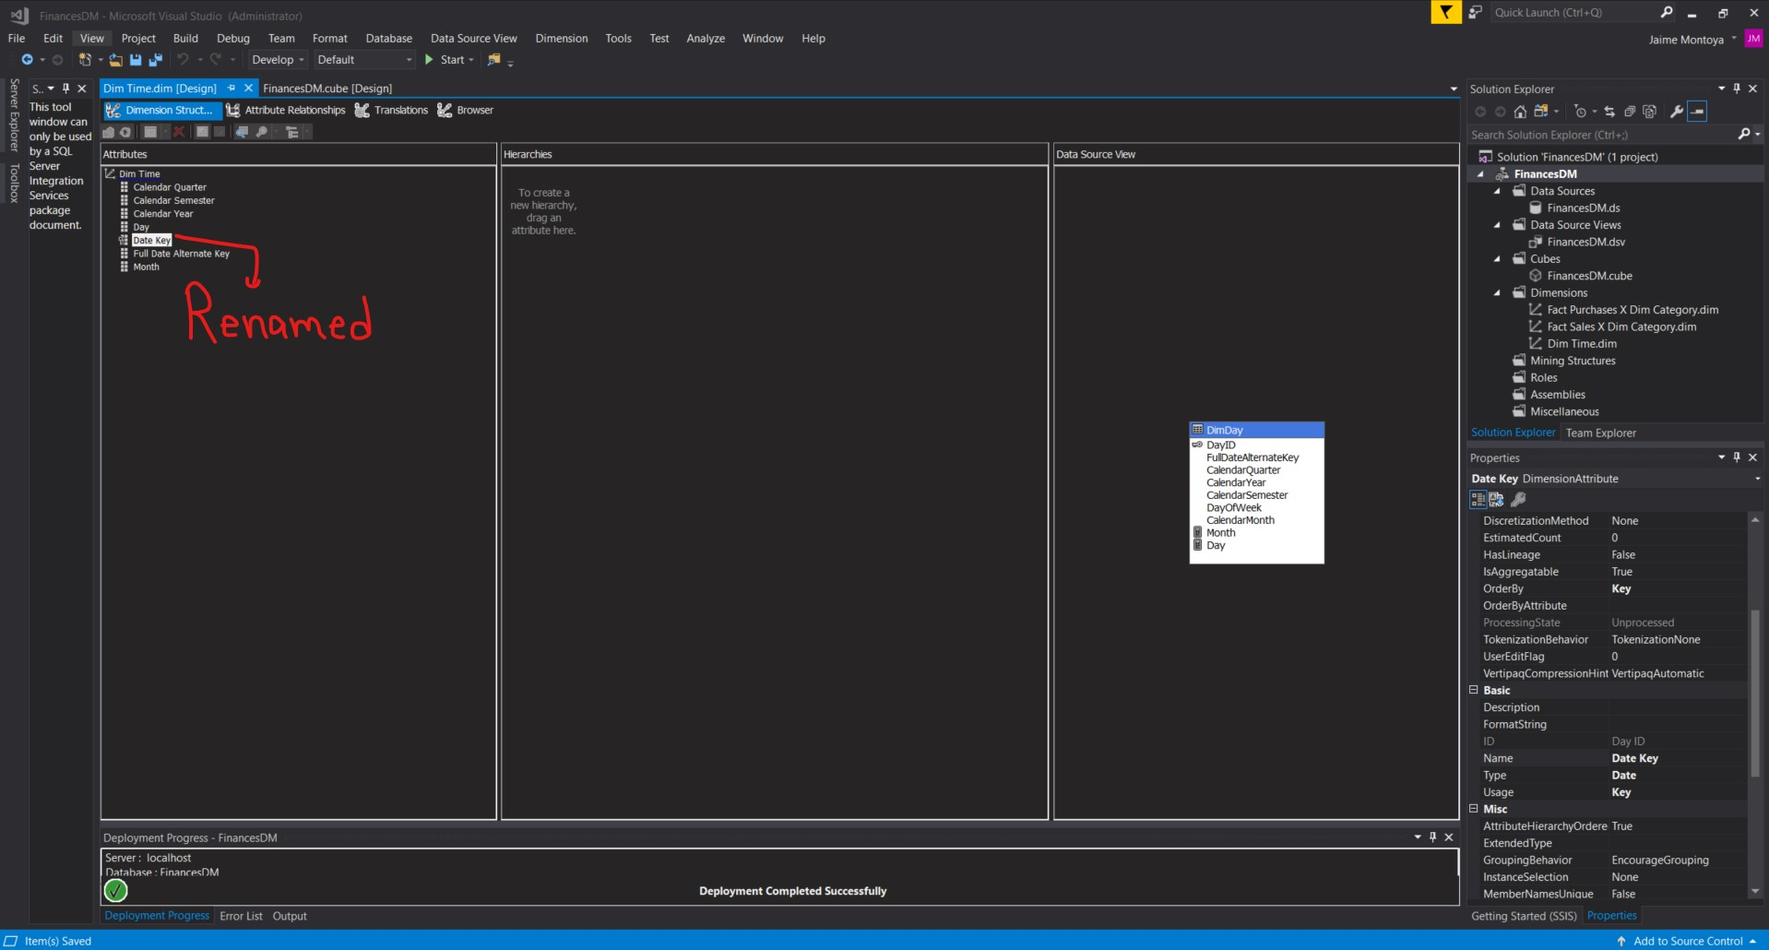
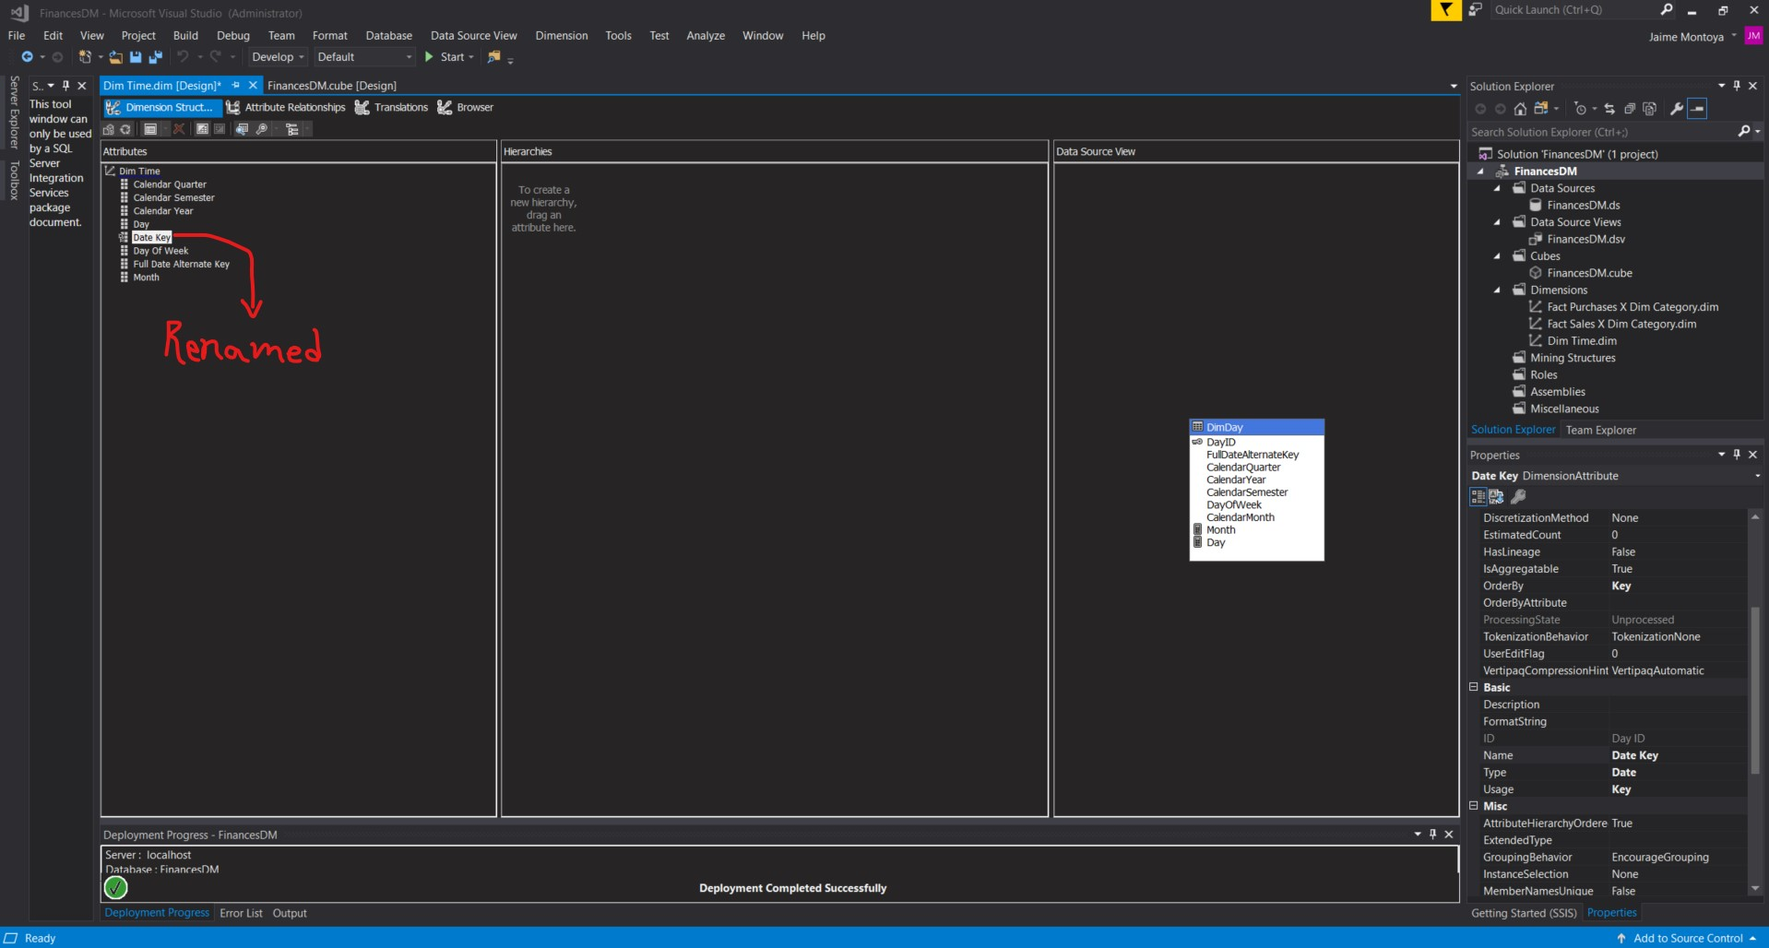
Update image.

diff --git a/blog/2023/12/31/06/14/book-info-20231231-0614.php b/blog/2023/12/31/06/14/book-info-20231231-0614.php
@@ -17,10 +17,8 @@ WHEN CalendarMonth = 11 THEN 'November'
 WHEN CalendarMonth = 12 THEN 'December'
 END
 </pre>		   
-		   </td></tr><tr><td>Day</td><td><span class=\"cod\">CONVERT(int, RIGHT(DayID, 2))</span></td></tr></table><p>I created the <span class=\"cod\">Named Calculation</span> for <span class=\"cod\">Month</span>:</p><div><img src=\"/blog/2023/12/31/06/14/img/createNamedCalculationForMonth.jpg\" alt=\"Create Named Calculation for Month\" width=\"1920\" height=\"1030\"></div><p>I created the <span class=\"cod\">Named Calculation</span> for <span class=\"cod\">Day</span>:</p><div><img src=\"/blog/2023/12/31/06/14/img/createNamedCalculationForDay.jpg\" alt=\"Create Named Calculation for Day\" width=\"1920\" height=\"1026\"></div><p>The new <span class=\"cod\">Named Calculations</span> appeared in the <span class=\"cod\">FinancesDM.dsv Data Source View</span> diagram:</p><div><img src=\"/blog/2023/12/31/06/14/img/calculatedColumnsInDataSourceView.jpg\" alt=\"Calculated columns in Data Source View\" width=\"1919\" height=\"1030\"></div><p>I right-clicked the <span class=\"cod\">DimDay</span> table and clicked <span class=\"cod\">Explore Data</span>:</p><div><img src=\"/blog/2023/12/31/06/14/img/exploreDataFromDataSourceView.jpg\" alt=\"Explore Data from Data Source View\" width=\"1916\" height=\"1028\"></div><p>The <span class=\"cod\">Explore DimDay Table</span> tab appeared with the corresponding results from the view:</p><div><img src=\"/blog/2023/12/31/06/14/img/exploreDimDayTable.jpg\" alt=\"Explore DimDay table\" width=\"1919\" height=\"1030\"></div><p>The results above were exactly the same as when running <span class=\"cod\">SELECT * FROM [Finances].[dbo].[DimDay]</span> from <span class=\"cod\">SQL Server Management Studio</span>, except for the two <span class=\"cod\">Calculated Columns</span> (<span class=\"cod\">Month</span> and <span class=\"cod\">Day</span>):</p><div><img src=\"/blog/2023/12/31/06/14/img/exploreDimDayTableDataFromSQLServerManagementStudio.jpg\" alt=\"Explore DimDay table data from SQL Server Management Studio\" width=\"1920\" height=\"1029\"></div><p>I double-clicked <span class=\"cod\">FinancesDM.cube</span> to open the <span class=\"cod\">FinancesDM.cube [Design]</span> tab. The <span class=\"cod\">Calculated Columns</span> were included in the cube diagram:</p><div><img src=\"/blog/2023/12/31/06/14/img/includeCalculatedColumnsInCubeDiagram.jpg\" alt=\"Include Calculated Columns in cube diagram\" width=\"1917\" height=\"1028\"></div><p>I right-clicked <span class=\"cod\">Dim Time.dim</span> and clicked <span class=\"cod\">Delete</span>:</p><div><img src=\"/blog/2023/12/31/06/14/img/deleteTimeDimension.jpg\" alt=\"Delete Time dimension\" width=\"1918\" height=\"1030\"></div><p>I clicked <span class=\"cod\">OK</span> to delete the <span class=\"cod\">Dim Time</span> object:</p><div><img src=\"/blog/2023/12/31/06/14/img/deleteDimTimeObject.jpg\" alt=\"Delete Dim Time object\" width=\"1918\" height=\"1028\"></div><p>I right-clicked the <span class=\"cod\">Dimensions</span> entry in the <span class=\"cod\">Solution Explorer</span> window, and selected <span class=\"cod\">New Dimension</span> from the context menu:</p><div><img src=\"/blog/2023/12/31/06/14/img/createNewTimeDimension.jpg\" alt=\"Create new Time dimension\" width=\"1922\" height=\"1080\"></div><p>The <span class=\"cod\">Dimension Wizard</span> dialog box appeared. I clicked <span class=\"cod\">Next</span>:</p><div><img src=\"/blog/2023/12/31/06/14/img/startDimensionWizard.jpg\" alt=\"Start Dimension Wizard\" width=\"1918\" height=\"1029\"></div><p>The <span class=\"cod\">Select Creation Method</span> page of the wizard appeared. I left the <span class=\"cod\">Use an existing table</span> item selected and clicked <span class=\"cod\">Next</span>:</p><div><img src=\"/blog/2023/12/31/06/14/img/useAnExistingTableToCreateDimension.jpg\" alt=\"Use an existing table to create dimension\" width=\"1919\" height=\"1028\"></div><p>The <span class=\"cod\">Specify Source Information</span> page appeared. The <span class=\"cod\">FinancesDM</span> data source view was already selected. I selected <span class=\"cod\">DimDay</span> from the <span class=\"cod\">Main table</span> drop-down list. <span class=\"cod\">DayID</span> was selected as the first and only <span class=\"cod\">Key column</span>. I selected <span class=\"cod\">DayID</span> from the drop-down list at the bottom. I clicked <span class=\"cod\">Next</span>:</p><div><img src=\"/blog/2023/12/31/06/14/img/specifySourceInformationForTimeDimension.jpg\" alt=\"Specify Source Information for Time dimension\" width=\"1917\" height=\"1031\"></div><p>The <span class=\"cod\">Select Dimension Attributes</span> page appeared. I left <span class=\"cod\">Day ID</span> checked and also checked <span class=\"cod\">Full Date Alternate Key</span>, <span class=\"cod\">Calendar Quarter</span>, <span class=\"cod\">Calendar Year</span>, <span class=\"cod\">Calendar Semester</span>, <span class=\"cod\">Day Of Week</span>, <span class=\"cod\">Month</span>, and <span class=\"cod\">Day</span>. I clicked in the <span class=\"cod\">Attribute Type column</span> across from <span class=\"cod\">Day ID</span>. I clicked the drop-down arrow. I expanded the <span class=\"cod\">Date</span> entry. I expanded the <span class=\"cod\">Calendar</span> entry. I selected <span class=\"cod\">Date</span> and clicked <span class=\"cod\">OK</span>:</p><div><img src=\"/blog/2023/12/31/06/14/img/defineAttributeTypeForDayID.jpg\" alt=\"Define Attribute Type for Day ID\" width=\"1916\" height=\"1029\"></div><p>I clicked in the <span class=\"cod\">Attribute Type column</span> across from <span class=\"cod\">Full Date Alternate Key</span>. I clicked the drop-down arrow. I expanded the <span class=\"cod\">Date</span> entry. I expanded the <span class=\"cod\">Calendar</span> entry. I selected <span class=\"cod\">Date</span> and clicked <span class=\"cod\">OK</span>:</p><div><img src=\"/blog/2023/12/31/06/14/img/selectDateAttributeType.jpg\" alt=\"Select Date Attribute Type\" width=\"1916\" height=\"1029\"></div><p>I clicked in the <span class=\"cod\">Attribute Type</span> column across from <span class=\"cod\">Calendar Quarter</span>. I clicked the drop-down arrow. I expanded the <span class=\"cod\">Date</span> entry. I expanded the <span class=\"cod\">Calendar</span> entry. I selected <span class=\"cod\">Quarter</span> and clicked <span class=\"cod\">OK</span>:</p><div><img src=\"/blog/2023/12/31/06/14/img/selectQuarterAttributeType.jpg\" alt=\"Select Quarter Attribute Type\" width=\"1917\" height=\"1031\"></div><p>I clicked in the <span class=\"cod\">Attribute Type</span> column across from <span class=\"cod\">Calendar Year</span>. I clicked the drop-down arrow. I expanded the <span class=\"cod\">Date</span> entry. I expanded the <span class=\"cod\">Calendar</span> entry. I selected <span class=\"cod\">Year</span> and clicked <span class=\"cod\">OK</span>:</p><div><img src=\"/blog/2023/12/31/06/14/img/selectYearAttributeTypeForDimension.jpg\" alt=\"Select Year Attribute Type for Dimension\" width=\"1916\" height=\"1030\"></div><p>I clicked in the <span class=\"cod\">Attribute Type</span> column across from <span class=\"cod\">Calendar Semester</span>. I clicked the drop-down arrow. I expanded the <span class=\"cod\">Date</span> entry. I expanded the <span class=\"cod\">Calendar</span> entry. I selected <span class=\"cod\">Half Year</span> and clicked <span class=\"cod\">OK</span>:</p><div><img src=\"/blog/2023/12/31/06/14/img/selectHalfYearAttributeTypeForDimension.jpg\" alt=\"Select Half Year Attribute Type for Dimension\" width=\"1919\" height=\"1028\"></div><p>I clicked in the <span class=\"cod\">Attribute Type</span> column across from <span class=\"cod\">Day Of Week</span>. I clicked the drop-down arrow. I expanded the <span class=\"cod\">Date</span> entry. I expanded the <span class=\"cod\">Calendar</span> entry. I selected <span class=\"cod\">Day of Week</span> and clicked <span class=\"cod\">OK</span>:</p><div><img src=\"/blog/2023/12/31/06/14/img/selectDayOfWeekAttributeTypeForDimension.jpg\" alt=\"Select Month Attribute Type for Dimension\" width=\"1919\" height=\"1026\"></div><p>I clicked in the <span class=\"cod\">Attribute Type</span> column across from <span class=\"cod\">Month</span>. I clicked the drop-down arrow. I expanded the <span class=\"cod\">Date</span> entry. I expanded the <span class=\"cod\">Calendar</span> entry. I selected <span class=\"cod\">Month</span> and clicked <span class=\"cod\">OK</span>:</p><div><img src=\"/blog/2023/12/31/06/14/img/selectMonthAttributeTypeForDimension.jpg\" alt=\"Select Month Attribute Type for Dimension\" width=\"1915\" height=\"1025\"></div><p>I clicked in the <span class=\"cod\">Attribute Type</span> column across from <span class=\"cod\">Day</span>. I clicked the drop-down arrow. I expanded the <span class=\"cod\">Date</span> entry. I expanded the <span class=\"cod\">Calendar</span> entry. I selected <span class=\"cod\">Day of Month</span> and clicked <span class=\"cod\">OK</span>:</p><div><img src=\"/blog/2023/12/31/06/14/img/selectDayOfMonthAttributeForDimension.jpg\" alt=\"Select Day of Month Attribute Type for Dimension\" width=\"1917\" height=\"1029\"></div><p>I clicked <span class=\"cod\">Next</span>:</p><div><img src=\"/blog/2023/12/31/06/14/img/clickNextAfterSelectingTimeDimensionAttributes.jpg\" alt=\"Click Next after selecting Time Dimension attributes\" width=\"1917\" height=\"1030\"></div><p>The <span class=\"cod\">Completing the Wizard</span> page appeared. I changed the name to <span class=\"cod\">Dim Time</span>. I clicked <span class=\"cod\">Finish</span>:</p><div><img src=\"/blog/2023/12/31/06/14/img/clickFinishToCompleteCreationOfTimeDimension.jpg\" alt=\"Click Finish to complete creation of Time Dimension\" width=\"1918\" height=\"1029\"></div><p>The <span class=\"cod\">Dimension Design</span> tab appeared with the <span class=\"cod\">Dim Time</span> dimension:</p><div><img src=\"/blog/2023/12/31/06/14/img/timeDimensionDesignTabForNewTimeDimension.jpg\" alt=\"Time Dimension Design tab for new Time Dimension\" width=\"1917\" height=\"1028\"></div><p>I right-clicked the entry for <span class=\"cod\">Day ID</span> in the <span class=\"cod\">Attributes</span> area, and selected <span class=\"cod\">Rename</span> from the context menu:</p><div><img src=\"/blog/2023/12/31/06/14/img/renameDayIDAttribute.jpg\" alt=\"Rename Day ID Attribute\" width=\"1914\" height=\"1028\"></div>
+		   </td></tr><tr><td>Day</td><td><span class=\"cod\">CONVERT(int, RIGHT(DayID, 2))</span></td></tr></table><p>I created the <span class=\"cod\">Named Calculation</span> for <span class=\"cod\">Month</span>:</p><div><img src=\"/blog/2023/12/31/06/14/img/createNamedCalculationForMonth.jpg\" alt=\"Create Named Calculation for Month\" width=\"1920\" height=\"1030\"></div><p>I created the <span class=\"cod\">Named Calculation</span> for <span class=\"cod\">Day</span>:</p><div><img src=\"/blog/2023/12/31/06/14/img/createNamedCalculationForDay.jpg\" alt=\"Create Named Calculation for Day\" width=\"1920\" height=\"1026\"></div><p>The new <span class=\"cod\">Named Calculations</span> appeared in the <span class=\"cod\">FinancesDM.dsv Data Source View</span> diagram:</p><div><img src=\"/blog/2023/12/31/06/14/img/calculatedColumnsInDataSourceView.jpg\" alt=\"Calculated columns in Data Source View\" width=\"1919\" height=\"1030\"></div><p>I right-clicked the <span class=\"cod\">DimDay</span> table and clicked <span class=\"cod\">Explore Data</span>:</p><div><img src=\"/blog/2023/12/31/06/14/img/exploreDataFromDataSourceView.jpg\" alt=\"Explore Data from Data Source View\" width=\"1916\" height=\"1028\"></div><p>The <span class=\"cod\">Explore DimDay Table</span> tab appeared with the corresponding results from the view:</p><div><img src=\"/blog/2023/12/31/06/14/img/exploreDimDayTable.jpg\" alt=\"Explore DimDay table\" width=\"1919\" height=\"1030\"></div><p>The results above were exactly the same as when running <span class=\"cod\">SELECT * FROM [Finances].[dbo].[DimDay]</span> from <span class=\"cod\">SQL Server Management Studio</span>, except for the two <span class=\"cod\">Calculated Columns</span> (<span class=\"cod\">Month</span> and <span class=\"cod\">Day</span>):</p><div><img src=\"/blog/2023/12/31/06/14/img/exploreDimDayTableDataFromSQLServerManagementStudio.jpg\" alt=\"Explore DimDay table data from SQL Server Management Studio\" width=\"1920\" height=\"1029\"></div><p>I double-clicked <span class=\"cod\">FinancesDM.cube</span> to open the <span class=\"cod\">FinancesDM.cube [Design]</span> tab. The <span class=\"cod\">Calculated Columns</span> were included in the cube diagram:</p><div><img src=\"/blog/2023/12/31/06/14/img/includeCalculatedColumnsInCubeDiagram.jpg\" alt=\"Include Calculated Columns in cube diagram\" width=\"1917\" height=\"1028\"></div><p>I right-clicked <span class=\"cod\">Dim Time.dim</span> and clicked <span class=\"cod\">Delete</span>:</p><div><img src=\"/blog/2023/12/31/06/14/img/deleteTimeDimension.jpg\" alt=\"Delete Time dimension\" width=\"1918\" height=\"1030\"></div><p>I clicked <span class=\"cod\">OK</span> to delete the <span class=\"cod\">Dim Time</span> object:</p><div><img src=\"/blog/2023/12/31/06/14/img/deleteDimTimeObject.jpg\" alt=\"Delete Dim Time object\" width=\"1918\" height=\"1028\"></div><p>I right-clicked the <span class=\"cod\">Dimensions</span> entry in the <span class=\"cod\">Solution Explorer</span> window, and selected <span class=\"cod\">New Dimension</span> from the context menu:</p><div><img src=\"/blog/2023/12/31/06/14/img/createNewTimeDimension.jpg\" alt=\"Create new Time dimension\" width=\"1922\" height=\"1080\"></div><p>The <span class=\"cod\">Dimension Wizard</span> dialog box appeared. I clicked <span class=\"cod\">Next</span>:</p><div><img src=\"/blog/2023/12/31/06/14/img/startDimensionWizard.jpg\" alt=\"Start Dimension Wizard\" width=\"1918\" height=\"1029\"></div><p>The <span class=\"cod\">Select Creation Method</span> page of the wizard appeared. I left the <span class=\"cod\">Use an existing table</span> item selected and clicked <span class=\"cod\">Next</span>:</p><div><img src=\"/blog/2023/12/31/06/14/img/useAnExistingTableToCreateDimension.jpg\" alt=\"Use an existing table to create dimension\" width=\"1919\" height=\"1028\"></div><p>The <span class=\"cod\">Specify Source Information</span> page appeared. The <span class=\"cod\">FinancesDM</span> data source view was already selected. I selected <span class=\"cod\">DimDay</span> from the <span class=\"cod\">Main table</span> drop-down list. <span class=\"cod\">DayID</span> was selected as the first and only <span class=\"cod\">Key column</span>. I selected <span class=\"cod\">DayID</span> from the drop-down list at the bottom. I clicked <span class=\"cod\">Next</span>:</p><div><img src=\"/blog/2023/12/31/06/14/img/specifySourceInformationForTimeDimension.jpg\" alt=\"Specify Source Information for Time dimension\" width=\"1917\" height=\"1031\"></div><p>The <span class=\"cod\">Select Dimension Attributes</span> page appeared. I left <span class=\"cod\">Day ID</span> checked and also checked <span class=\"cod\">Full Date Alternate Key</span>, <span class=\"cod\">Calendar Quarter</span>, <span class=\"cod\">Calendar Year</span>, <span class=\"cod\">Calendar Semester</span>, <span class=\"cod\">Day Of Week</span>, <span class=\"cod\">Month</span>, and <span class=\"cod\">Day</span>. I clicked in the <span class=\"cod\">Attribute Type column</span> across from <span class=\"cod\">Day ID</span>. I clicked the drop-down arrow. I expanded the <span class=\"cod\">Date</span> entry. I expanded the <span class=\"cod\">Calendar</span> entry. I selected <span class=\"cod\">Date</span> and clicked <span class=\"cod\">OK</span>:</p><div><img src=\"/blog/2023/12/31/06/14/img/defineAttributeTypeForDayID.jpg\" alt=\"Define Attribute Type for Day ID\" width=\"1916\" height=\"1029\"></div><p>I clicked in the <span class=\"cod\">Attribute Type column</span> across from <span class=\"cod\">Full Date Alternate Key</span>. I clicked the drop-down arrow. I expanded the <span class=\"cod\">Date</span> entry. I expanded the <span class=\"cod\">Calendar</span> entry. I selected <span class=\"cod\">Date</span> and clicked <span class=\"cod\">OK</span>:</p><div><img src=\"/blog/2023/12/31/06/14/img/selectDateAttributeType.jpg\" alt=\"Select Date Attribute Type\" width=\"1916\" height=\"1029\"></div><p>I clicked in the <span class=\"cod\">Attribute Type</span> column across from <span class=\"cod\">Calendar Quarter</span>. I clicked the drop-down arrow. I expanded the <span class=\"cod\">Date</span> entry. I expanded the <span class=\"cod\">Calendar</span> entry. I selected <span class=\"cod\">Quarter</span> and clicked <span class=\"cod\">OK</span>:</p><div><img src=\"/blog/2023/12/31/06/14/img/selectQuarterAttributeType.jpg\" alt=\"Select Quarter Attribute Type\" width=\"1917\" height=\"1031\"></div><p>I clicked in the <span class=\"cod\">Attribute Type</span> column across from <span class=\"cod\">Calendar Year</span>. I clicked the drop-down arrow. I expanded the <span class=\"cod\">Date</span> entry. I expanded the <span class=\"cod\">Calendar</span> entry. I selected <span class=\"cod\">Year</span> and clicked <span class=\"cod\">OK</span>:</p><div><img src=\"/blog/2023/12/31/06/14/img/selectYearAttributeTypeForDimension.jpg\" alt=\"Select Year Attribute Type for Dimension\" width=\"1916\" height=\"1030\"></div><p>I clicked in the <span class=\"cod\">Attribute Type</span> column across from <span class=\"cod\">Calendar Semester</span>. I clicked the drop-down arrow. I expanded the <span class=\"cod\">Date</span> entry. I expanded the <span class=\"cod\">Calendar</span> entry. I selected <span class=\"cod\">Half Year</span> and clicked <span class=\"cod\">OK</span>:</p><div><img src=\"/blog/2023/12/31/06/14/img/selectHalfYearAttributeTypeForDimension.jpg\" alt=\"Select Half Year Attribute Type for Dimension\" width=\"1919\" height=\"1028\"></div><p>I clicked in the <span class=\"cod\">Attribute Type</span> column across from <span class=\"cod\">Day Of Week</span>. I clicked the drop-down arrow. I expanded the <span class=\"cod\">Date</span> entry. I expanded the <span class=\"cod\">Calendar</span> entry. I selected <span class=\"cod\">Day of Week</span> and clicked <span class=\"cod\">OK</span>:</p><div><img src=\"/blog/2023/12/31/06/14/img/selectDayOfWeekAttributeTypeForDimension.jpg\" alt=\"Select Month Attribute Type for Dimension\" width=\"1919\" height=\"1026\"></div><p>I clicked in the <span class=\"cod\">Attribute Type</span> column across from <span class=\"cod\">Month</span>. I clicked the drop-down arrow. I expanded the <span class=\"cod\">Date</span> entry. I expanded the <span class=\"cod\">Calendar</span> entry. I selected <span class=\"cod\">Month</span> and clicked <span class=\"cod\">OK</span>:</p><div><img src=\"/blog/2023/12/31/06/14/img/selectMonthAttributeTypeForDimension.jpg\" alt=\"Select Month Attribute Type for Dimension\" width=\"1915\" height=\"1025\"></div><p>I clicked in the <span class=\"cod\">Attribute Type</span> column across from <span class=\"cod\">Day</span>. I clicked the drop-down arrow. I expanded the <span class=\"cod\">Date</span> entry. I expanded the <span class=\"cod\">Calendar</span> entry. I selected <span class=\"cod\">Day of Month</span> and clicked <span class=\"cod\">OK</span>:</p><div><img src=\"/blog/2023/12/31/06/14/img/selectDayOfMonthAttributeForDimension.jpg\" alt=\"Select Day of Month Attribute Type for Dimension\" width=\"1917\" height=\"1029\"></div><p>I clicked <span class=\"cod\">Next</span>:</p><div><img src=\"/blog/2023/12/31/06/14/img/clickNextAfterSelectingTimeDimensionAttributes.jpg\" alt=\"Click Next after selecting Time Dimension attributes\" width=\"1917\" height=\"1030\"></div><p>The <span class=\"cod\">Completing the Wizard</span> page appeared. I changed the name to <span class=\"cod\">Dim Time</span>. I clicked <span class=\"cod\">Finish</span>:</p><div><img src=\"/blog/2023/12/31/06/14/img/clickFinishToCompleteCreationOfTimeDimension.jpg\" alt=\"Click Finish to complete creation of Time Dimension\" width=\"1918\" height=\"1029\"></div><p>The <span class=\"cod\">Dimension Design</span> tab appeared with the <span class=\"cod\">Dim Time</span> dimension:</p><div><img src=\"/blog/2023/12/31/06/14/img/timeDimensionDesignTabForNewTimeDimension.jpg\" alt=\"Time Dimension Design tab for new Time Dimension\" width=\"1917\" height=\"1028\"></div><p>I right-clicked the entry for <span class=\"cod\">Day ID</span> in the <span class=\"cod\">Attributes</span> area, and selected <span class=\"cod\">Rename</span> from the context menu:</p><div><img src=\"/blog/2023/12/31/06/14/img/renameDayIDAttribute.jpg\" alt=\"Rename Day ID Attribute\" width=\"1914\" height=\"1028\"></div><p>I entered <span class=\"cod\">Date Key</span> for the name of this attribute, and pressed <span class=\"cod\">ENTER</span>:</p><div><img src=\"/blog/2023/12/31/06/14/img/dayIDRenamedToDateKey.jpg\" alt=\"Day ID renamed to Date Key\" width=\"1918\" height=\"1028\"></div>
 		   
 		   
-		   
-		   
-		   <p>I entered <span class=\"cod\">Date Key</span> for the name of this attribute, and pressed <span class=\"cod\">ENTER</span>:</p><div><img src=\"/blog/2023/12/31/06/14/img/dayIDRenamedToDateKey.jpg\" alt=\"Day ID renamed to Date Key\" width=\"1918\" height=\"1030\"></div><p>I repeated the steps above to rename the other attributes as follows:</p><table><tbody><tr><th>Old name</th><th>New name</th></tr><tr><td>Calendar Quarter</td><td>Quarter</td></tr><tr><td>Calendar Semester</td><td>Semester</td></tr><tr><td>Calendar Year</td><td>Year</td></tr><tr><td>Full Date Alternate Key</td><td>Date</td></tr></tbody></table><div><img src=\"/blog/2023/12/31/06/14/img/renameTimeAttributes.jpg\" alt=\"Rename Time Attributes\" width=\"1920\" height=\"1029\"></div><p>I dragged the <span class=\"cod\">Year</span> item from the <span class=\"cod\">Attributes</span> column, and dropped it in the <span class=\"cod\">Hierarchies</span> area:</p><div><img src=\"/blog/2023/12/31/06/14/img/moveYearAttributeToHierarchy.jpg\" alt=\"Move Year Attribute to Hierarchy\" width=\"1920\" height=\"1030\"></div><p>I dragged the <span class=\"cod\">Semester</span> item from the <span class=\"cod\">Attributes</span> column, and dropped it on <span class=\"cod\">&lt;new level&gt;</span> in the <span class=\"cod\">Hierarchies</span> area:</p><div><img src=\"/blog/2023/12/31/06/14/img/moveSemesterAttributeToHierarchy.jpg\" alt=\"Move Semester Attribute to Hierarchy\" width=\"1916\" height=\"1029\"></div> <div>Published: 6:14 AM GMT · Dec 31, 2023</div>\n";
+		   <p>I repeated the steps above to rename the other attributes as follows:</p><table><tbody><tr><th>Old name</th><th>New name</th></tr><tr><td>Calendar Quarter</td><td>Quarter</td></tr><tr><td>Calendar Semester</td><td>Semester</td></tr><tr><td>Calendar Year</td><td>Year</td></tr><tr><td>Full Date Alternate Key</td><td>Date</td></tr></tbody></table><div><img src=\"/blog/2023/12/31/06/14/img/renameTimeAttributes.jpg\" alt=\"Rename Time Attributes\" width=\"1920\" height=\"1029\"></div><p>I dragged the <span class=\"cod\">Year</span> item from the <span class=\"cod\">Attributes</span> column, and dropped it in the <span class=\"cod\">Hierarchies</span> area:</p><div><img src=\"/blog/2023/12/31/06/14/img/moveYearAttributeToHierarchy.jpg\" alt=\"Move Year Attribute to Hierarchy\" width=\"1920\" height=\"1030\"></div><p>I dragged the <span class=\"cod\">Semester</span> item from the <span class=\"cod\">Attributes</span> column, and dropped it on <span class=\"cod\">&lt;new level&gt;</span> in the <span class=\"cod\">Hierarchies</span> area:</p><div><img src=\"/blog/2023/12/31/06/14/img/moveSemesterAttributeToHierarchy.jpg\" alt=\"Move Semester Attribute to Hierarchy\" width=\"1916\" height=\"1029\"></div> <div>Published: 6:14 AM GMT · Dec 31, 2023</div>\n";
 ?>
